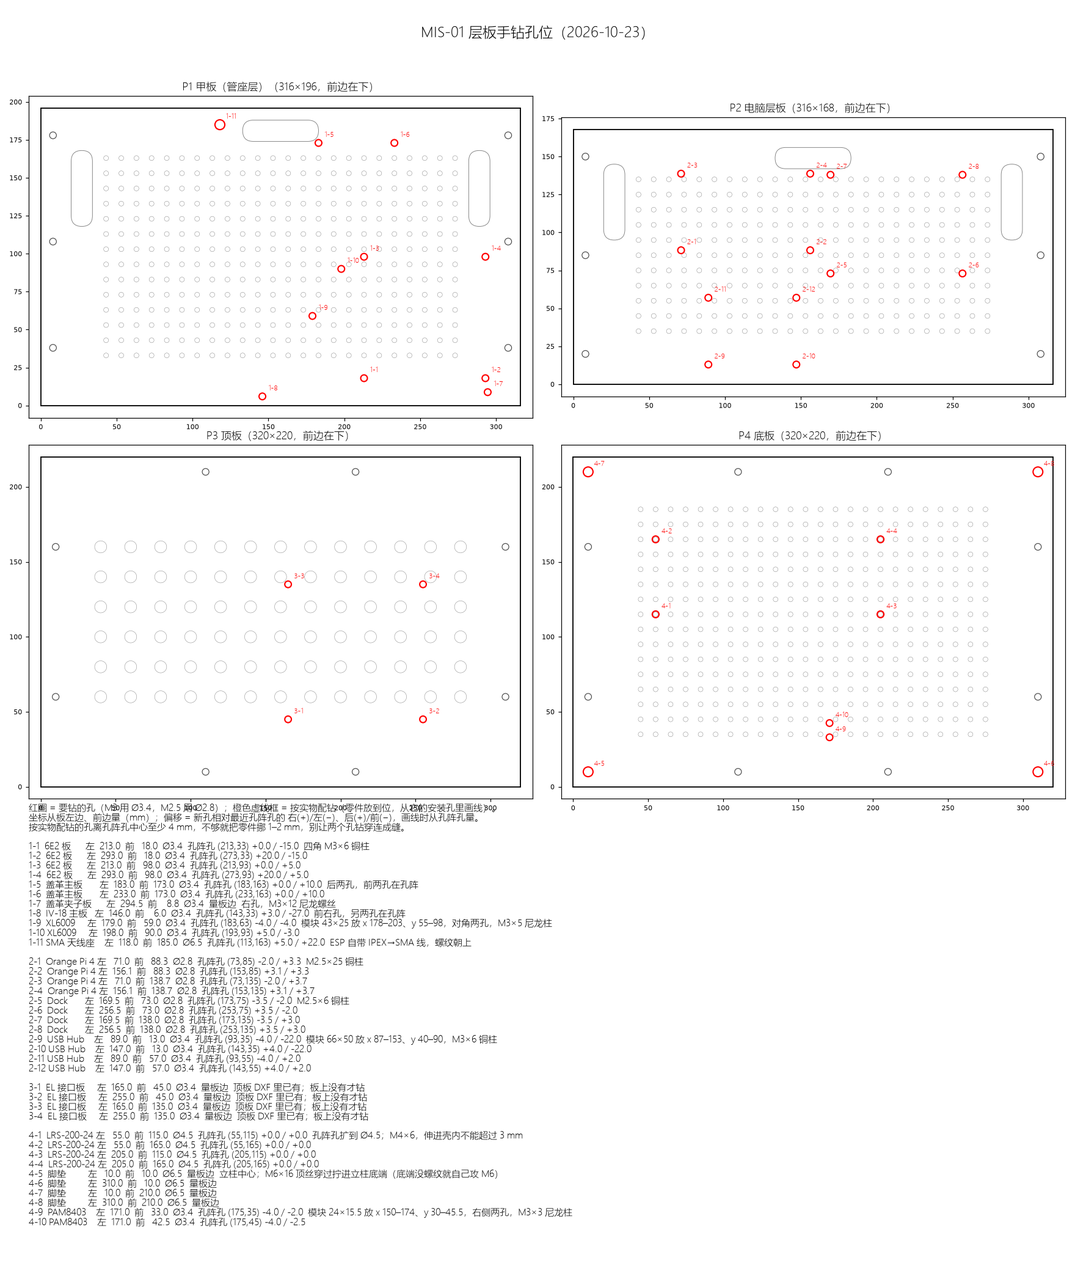
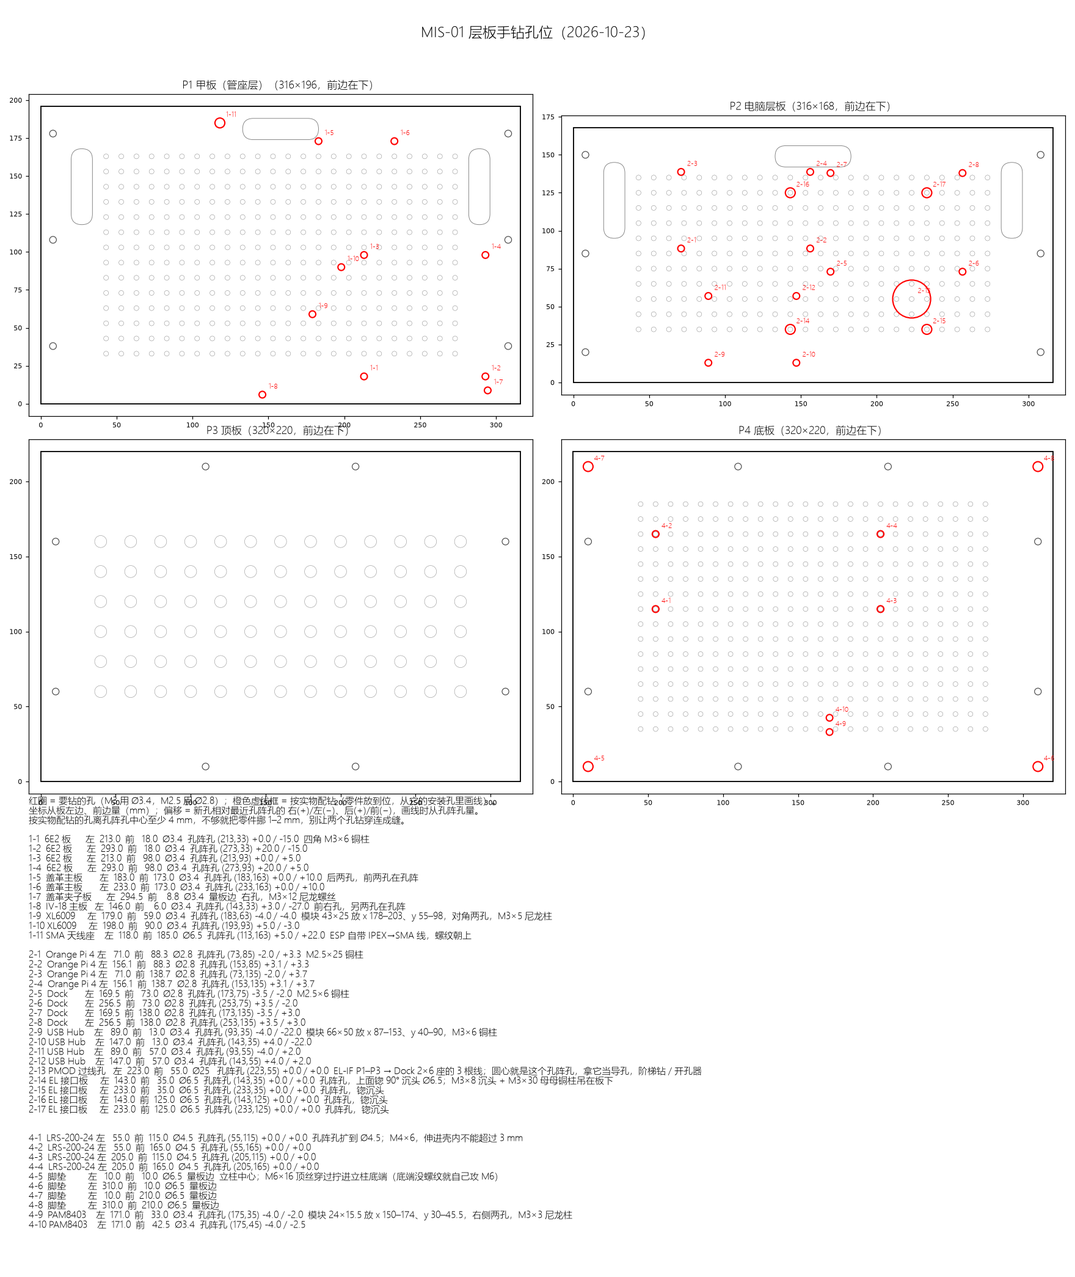
EL 接口板改吊电脑层板下、屏幕正后方（用户 2026-10-28 确认）
原因：原暂定吊在顶板下（x 160–260、y 40–140、z 410），到屏 CN5 的 DF11 线要 40–45 cm；用户手上只有一根 20 cm，
屏规格书最长 50 cm、设计笔记建议 10–20 cm（5.4 MHz）。新位置：
- 元件朝上、绕 Z 转 180°（全局 = (240 − lx, 160 − ly)），板占 x 140–240、y 60–160，板面 z 230；
  4 根 M3×30 母母铜柱挂在层板孔阵孔 (145/235, 65/155) 上，层板上面锪沉头（3 颗在 Hub、Dock、Pi 下面）。
- J_EL 在 (149.3, 113)、插头朝 −x，DF11 从板左边外面到 CN5（x 160、y 26.5、z 229，用户确认）约 12 cm，几乎同高、不穿层板、不过高压件。
- P1–P3 在 x 235.8、y 110/130/86，线穿层板新开 Ø25 过线孔（圆心 = 孔阵孔 (225,85)，孔边在 Dock 前沿前）到 Dock 前沿 2×6 座，
  按 4 个座最坏情况 7–13 cm（15 cm 线够）。J_PWR / J_PF / J_LAMP 用户自压，各约 45 cm。
- 整机重建后干涉：EL-IF 只和自己的铜柱贴合（接触面 0.01，正常），板、插头、线通道与其他零件无干涉。
改动：assembly_computers（EL_IF_REF / EL_IF_TOP / SHELF_PMOD_HOLE / el_if_pt）；frame_spec DRILL P2 加 2-13 过线孔、2-14～2-17 沉头，
P3 不再钻（顶板已做好，原 4 孔空着）；png/27 重出；新增 fig_elif_placement.py → png/33（32 已被 MAX6921 测试图占用）；
装配说明第 5 步（要在装 Pi / Dock / Hub 前吊上、线先插好）、整机架构、PCB 安装建议、parts_list 同步。

diff --git a/fig_elif_placement.py b/fig_elif_placement.py
@@ -1,0 +1,81 @@
+"""EL 接口板位置图（俯视 + 侧视）→ png/33_elif_placement.png。
+位置、插座、过线孔取自 assembly_computers（EL_IF_REF、SHELF_PMOD_HOLE、el_if_pt）；周围零件外框取自整机 items 的包围盒。
+用法：main(items)，items = assembly.build() 的返回值；单独运行时现建（约 5 min）。"""
+import matplotlib
+matplotlib.use("Agg")
+import matplotlib.pyplot as plt
+from matplotlib.patches import Rectangle, Circle
+import render as R
+import assembly_computers as AC
+from assembly_base import W, Z_SCREEN
+
+F = R.FONT
+J_LOCAL = {"J_EL": (90.7, 47), "P1": (4.2, 50), "P2": (4.2, 30), "P3": (4.2, 74), "J_PWR": (72, 94), "J_PF": (27.4, 96), "J_LAMP": (75, 4.5)}   # EL-IF D1.2/D1.3 变更记录
+HDR = {"DISPLAY 位": 184.5, "CAM 位": 204, "TP 位": 225, "GPIO 位": 247.5}   # Dock 前沿 4 个 2×6 座中心 x（整机模型 Tang20K_Dock 切片），y ≈ 111
+CN5 = (W / 2, 26.5, Z_SCREEN + 220 / 2 - 59)                                   # 屏背面中线、中心以下 59（2026-10-28 用户确认）
+
+
+def main(items=None, fname="png/33_elif_placement.png"):
+    if items is None:
+        import assembly as A
+        items = A.build()
+    meta = {}
+    for n, shp, *_ in items:
+        b = shp.val().BoundingBox()
+        meta.setdefault(n, [b.xmin, b.ymin, b.zmin, b.xmax, b.ymax, b.zmax])
+    X0, Y0 = AC.EL_IF_REF
+    ZT = AC.EL_IF_TOP
+    g = AC.el_if_pt
+    HOLE = (AC.SHELF_PMOD_HOLE[0], AC.SHELF_PMOD_HOLE[1], AC.SHELF_PMOD_HOLE[2] / 2)
+    J = {k: g(*v) for k, v in J_LOCAL.items()}
+    fig, (a1, a2) = plt.subplots(1, 2, figsize=(17, 9), dpi=110, gridspec_kw=dict(width_ratios=[1.45, 1]))
+    # ---- 俯视（只画电脑层上下相关的东西）
+    a1.set_title("俯视：EL-IF 吊在电脑层板下面（元件朝上，转 180°）", fontproperties=F, fontsize=12)
+    for n, c, a in (("Sharp_LJ64K052", "#d98a1c", 0.25), ("Tang20K_Dock", "#2f7d3a", 0.25), ("OrangePi_4", "#3b6fb6", 0.2),
+                    ("USB_Hub_4port", "#888", 0.25), ("EL_bracket_L", "#aaa", 0.4), ("EL_bracket_R", "#aaa", 0.4)):
+        b = meta[n]; a1.add_patch(Rectangle((b[0], b[1]), b[3] - b[0], b[4] - b[1], fc=c, alpha=a, ec="#555", lw=0.6))
+        a1.text((b[0] + b[3]) / 2, (b[1] + b[4]) / 2, n.replace("_", " ") + ("（层板上面）" if n in ("Tang20K_Dock", "OrangePi_4", "USB_Hub_4port") else ""),
+                ha="center", va="center", fontproperties=F, fontsize=7, color="#333")
+    a1.add_patch(Rectangle((X0 - 100, Y0 - 100), 100, 100, fc="#1f6b35", alpha=0.55, ec="#0b3", lw=1.5))
+    a1.text(X0 - 50, Y0 - 9, f"EL-IF D1.3  100×100  板面 z {ZT:g}（层板下面）", ha="center", va="center", fontproperties=F, fontsize=9, color="white")
+    for hx, hy in ((5, 5), (95, 5), (5, 95), (95, 95)):
+        a1.add_patch(Circle(g(hx, hy), 2.5, fc="white", ec="k", lw=0.8))
+    a1.add_patch(Circle(HOLE[:2], HOLE[2], fc="none", ec="#c00", lw=1.6, ls="--"))
+    a1.text(HOLE[0] + HOLE[2] + 3, HOLE[1] + 3, "层板新开 Ø25\n过线孔（以孔阵孔\n为圆心当导孔）", fontproperties=F, fontsize=8, color="#c00")
+    for k, (x, y) in J.items():
+        a1.plot(x, y, "s", color="#ff0", mec="k", ms=6); a1.text(x + 2, y + 2, k, fontproperties=F, fontsize=8)
+    for k, x in HDR.items():
+        a1.add_patch(Rectangle((x - 7.6, 108.6), 15.2, 5.1, fc="#fff", ec="#060", lw=1)); a1.text(x - 7, 104, k, fontproperties=F, fontsize=6.5, color="#060")
+    jx, jy = J["J_EL"]
+    a1.plot([jx, jx - 20, 130, 130, CN5[0]], [jy, jy, jy - 12, 50, CN5[1] + 8], color="#06c", lw=2.2)
+    a1.text(108, 70, "DF11 20P\n走线约 12 cm\n（20 cm 线，余量盘起）", fontproperties=F, fontsize=8.5, color="#06c")
+    a1.plot(CN5[0], CN5[1], "o", color="#06c", ms=8); a1.text(CN5[0] + 3, CN5[1] - 9, "屏 CN5（背面）", fontproperties=F, fontsize=8, color="#06c")
+    for k in ("P1", "P2", "P3"):
+        x, y = J[k]; a1.plot([x, HOLE[0]], [y, HOLE[1]], color="#c60", lw=1.4)
+    a1.set_xlim(0, 320); a1.set_ylim(0, 200); a1.set_aspect("equal"); a1.grid(alpha=0.2)
+    a1.set_xlabel("x（mm，向右）", fontproperties=F); a1.set_ylabel("y（mm，向后；前面板在 y 0）", fontproperties=F)
+    # ---- 侧视（x = 225 附近剖，看高度）
+    a2.set_title("侧视（从右往左看，前面在左）", fontproperties=F, fontsize=12)
+    def zr(n, c, a=0.3, lab=None):
+        b = meta[n]; a2.add_patch(Rectangle((b[1], b[2]), b[4] - b[1], b[5] - b[2], fc=c, alpha=a, ec="#555", lw=0.6))
+        if lab: a2.text((b[1] + b[4]) / 2, (b[2] + b[5]) / 2, lab, ha="center", va="center", fontproperties=F, fontsize=7.5)
+    zr("Sharp_LJ64K052", "#d98a1c", 0.3, "EL 屏")
+    zr("shelf_plate_bakelite", "#d0603a", 0.8)
+    zr("Tang20K_Dock", "#2f7d3a", 0.35, "Dock")
+    a2.add_patch(Rectangle((Y0 - 100, ZT - 1.6), 100, 1.6, fc="#1f6b35", ec="k"))
+    a2.add_patch(Rectangle((Y0 - 100, ZT), 100, 15.7, fc="#1f6b35", alpha=0.25, ec="#1f6b35", ls=":"))
+    for yy in (Y0 - 5, Y0 - 95):
+        a2.add_patch(Rectangle((yy - 2.75, ZT), 5.5, 30, fc="#c9a227", ec="k", lw=0.5))
+    a2.text(Y0 - 50, ZT + 21, f"M3×{AC.EL_IF_STANDOFF} 铜柱 ×4（吊在层板下，孔阵孔，上面沉头）", ha="center", fontproperties=F, fontsize=8)
+    a2.add_patch(Rectangle((HOLE[1] - HOLE[2], 260), 2 * HOLE[2], 4, fc="white", ec="#c00", lw=1.2, ls="--"))
+    a2.plot([CN5[1], 50, 113], [CN5[2], ZT + 2, ZT + 2], color="#06c", lw=2); a2.plot(CN5[1], CN5[2], "o", color="#06c", ms=7)
+    a2.text(32, 212, "CN5 z 229，DF11 基本水平", fontproperties=F, fontsize=8, color="#06c")
+    a2.set_xlim(0, 200); a2.set_ylim(170, 300); a2.set_aspect("equal"); a2.grid(alpha=0.2)
+    a2.set_xlabel("y（mm）", fontproperties=F); a2.set_ylabel("z（mm）", fontproperties=F)
+    fig.suptitle("EL-IF 位置方案：电脑层板下面、屏背后（2026-10-28 用户确认）", fontproperties=F, fontsize=14)
+    fig.tight_layout(); fig.savefig(fname, facecolor="white"); plt.close(fig)
+    print("saved", fname)
+
+
+if __name__ == "__main__":
+    main()

diff --git a/assembly_computers.py b/assembly_computers.py
@@ -85,22 +85,32 @@ def build():
     build_extras()
 
 
-# ---------------------------------------------------------------- EL 接口板、Hub、Pi 散热（2026-10-22 暂定，待用户确认）
+# ---------------------------------------------------------------- EL 接口板、Hub、Pi 散热
 EL_IF_STEP = "el_driver/D1.3/制板文件/EL-IF_D1.3.step"          # EL-IF D1.3，100×100，原点 = 板左下角，元件最高 15.7；不进 git
-EL_IF_XY = (160.0, 40.0)                                       # 板占 x 160–260、y 40–140（Dock 前半部上方）
-EL_IF_STANDOFF = 10                                            # 吊在顶板下：M3×10 铜柱，元件朝下
+EL_IF_REF = (240.0, 160.0)                                     # 板绕 Z 转 180° 后，板本地原点落在全局 (240, 160)：全局 = (240 − lx, 160 − ly)，板占 x 140–240、y 60–160
+EL_IF_STANDOFF = 30                                            # 吊在电脑层板下：M3×30 母母铜柱，元件朝上；板面 z 230
+EL_IF_TOP = Z_SHELF - EL_IF_STANDOFF                           # 板元件面（顶面）z 230
+SHELF_PMOD_HOLE = (225.0, 85.0, 25.0)                          # 电脑层板新开 PMOD 过线孔 中心 x, y, 直径（孔阵孔 (225,85) 当导孔；孔边 y 97.5 在 Dock 前沿 98.4 前面）
+
+
+def el_if_pt(lx, ly):
+    """EL-IF 板本地坐标 → 全局 (x, y)"""
+    return EL_IF_REF[0] - lx, EL_IF_REF[1] - ly
 
 
 def el_if():
-    """EL 接口板吊在顶板下面（元件朝下）：离 Dock J5/J6/J14 近（PMOD 线 15 cm），离 EL 屏也近；
-    在 HDMI 软排线拱顶（约 z 368）和 Pi 风扇上面，层板上已经放不下 100×100（Pi、Dock 占满）。顶板要按四角孔打 4 个 M3 孔。"""
-    from assembly_base import H
-    x0, y0 = EL_IF_XY
-    zb = H - EL_IF_STANDOFF                                    # 板背面（原底面）z 410
-    b = V.load_abs(EL_IF_STEP).rotate((0, 0, 0), (1, 0, 0), 180).translate((x0, y0 + 100, zb))
+    """EL 接口板吊在电脑层板下面、EL 屏正后方（2026-10-28 用户确认；原暂定吊在顶板下，DF11 屏线要 40–45 cm，
+    用户手上只有一根 20 cm）。元件朝上、绕 Z 转 180°：
+    - J_EL（本地 (90.7, 47)，DF11 弯角，插头朝 −x）在全局 (149.3, 113)，到屏 CN5（x 160、y 26.5、z 229）走线约 12 cm；
+    - P1–P3（本地 x 4.2，y 50/30/74）在全局 x 235.8、y 110/130/86，线往上穿层板 Ø25 过线孔到 Dock 前沿 2×6 座，7–13 cm；
+    - 四个安装孔落在层板孔阵孔 (145/235, 65/155) 上，层板上面锪沉头（分别在 Hub、Dock、Pi 下面），M3×8 沉头 + M3×30 母母铜柱。"""
+    rx, ry = EL_IF_REF
+    zb = EL_IF_TOP - 1.6
+    b = V.load_abs(EL_IF_STEP).rotate((0, 0, 0), (0, 0, 1), 180).translate((rx, ry, zb))
     add("EL-IF_D1.3", b, "pcb_g", "computer")
     for hx, hy in ((5, 5), (95, 5), (5, 95), (95, 95)):
-        add("standoff_M3x10_ELIF", P.standoff_m3(EL_IF_STANDOFF).translate((x0 + hx, y0 + hy, zb)), "brass", "computer")
+        x, y = el_if_pt(hx, hy)
+        add("standoff_M3x30_ELIF", P.standoff_m3(EL_IF_STANDOFF).translate((x, y, EL_IF_TOP)), "brass", "computer")
 
 
 HUB_XY = (87.0, 40.0)                                          # Hub 模块左前角（2026-10-26 按实测 66×50 定）

diff --git a/frame_spec.py b/frame_spec.py
@@ -49,7 +49,7 @@ PLATES = [
      "垫在底层一圈型材下面；电源等安装孔以后按布置再加"),
 ]
 VENTS = [(40 + i * 20, 60 + j * 20) for i in range(13) for j in range(6)]
-# 零散 M3 孔（板自身坐标）：P3 顶板下吊 EL 接口板 D1.3（板占 x 160–260、y 40–140，四角孔离边 5；2026-10-22 暂定，见 assembly_computers.el_if）
+# 零散 M3 孔（板自身坐标）：P3 顶板上原计划吊 EL 接口板的 4 个孔。顶板已按这个做好（带着这 4 孔）；2026-10-28 EL 接口板改吊电脑层板下，这 4 孔空着不用
 EXTRA_M3 = {"P3": [(165, 45), (255, 45), (165, 135), (255, 135)]}
 
 # 电路板孔阵（PCB安装与空间规划建议.md 第 4 节）：Ø3.2，间距 10，孔心在全局 X、Y = 10 的倍数 + 5；
@@ -76,8 +76,11 @@ DRILL = {
            (171.5, 103.0, 2.8, "Dock", "M2.5×6 铜柱"), (258.5, 103.0, 2.8, "Dock", ""),
            (171.5, 168.0, 2.8, "Dock", ""), (258.5, 168.0, 2.8, "Dock", ""),
            (91, 43, 3.4, "USB Hub", "模块 66×50 放 x 87–153、y 40–90，M3×6 铜柱"), (149, 43, 3.4, "USB Hub", ""),
-           (91, 87, 3.4, "USB Hub", ""), (149, 87, 3.4, "USB Hub", "")],
-    "P3": [(x, y, 3.4, "EL 接口板", "顶板 DXF 里已有；板上没有才钻") for x, y in EXTRA_M3["P3"]],
+           (91, 87, 3.4, "USB Hub", ""), (149, 87, 3.4, "USB Hub", ""),
+           (225, 85, 25.0, "PMOD 过线孔", "EL-IF P1–P3 → Dock 2×6 座的 3 根线；圆心就是这个孔阵孔，拿它当导孔，阶梯钻 / 开孔器")]
+          + [(x, y, 6.5, "EL 接口板", "孔阵孔，上面锪 90° 沉头 Ø6.5；M3×8 沉头 + M3×30 母母铜柱吊在板下" if (x, y) == (145, 65) else "孔阵孔，锪沉头")
+             for x, y in ((145, 65), (235, 65), (145, 155), (235, 155))],
+    "P3": [],                                                  # 原吊 EL 接口板的 4 个 M3（EXTRA_M3，顶板已做好带着）2026-10-28 起不用
     # LRS-200-24 底面 4-M4（明纬规格书 Case 207：离端子端 32.5、孔距 150；离长边 32.5、孔距 50；螺丝伸入壳内 ≤ 3）
     # 电源放 x 22.5–237.5、y 82.5–197.5，四孔正好落在孔阵 (55/205, 115/165) 上：只把这 4 个 Ø3.2 孔扩成 Ø4.5，M4×6 内六角或盘头（底板已做好不锪窝；脚垫 6 高，螺丝头 ≤ 4 碰不到桌面）；最长 M4×7
     "P4": [(x, y, 4.5, "LRS-200-24", "孔阵孔扩到 Ø4.5；M4×6，伸进壳内不能超过 3 mm" if (x, y) == (55, 115) else "")

diff --git a/assembly.py b/assembly.py
@@ -37,7 +37,7 @@ def frame():
     add("deck_plate_bakelite", deck.translate((2, 2, Z_DECK)), "bakelite", "plates")
     add("shelf_plate_bakelite", P.plate(W - 4, D - 52, PLATE_T).translate((2, 30, Z_SHELF)), "bakelite", "plates")
     vents = [(40 + i * 20, 60 + j * 20, 8) for i in range(13) for j in range(6)]
-    vents += [(x, y, 3.2) for x, y in ((165, 45), (255, 45), (165, 135), (255, 135))]   # 吊 EL 接口板 M3（frame_spec.EXTRA_M3）
+    vents += [(x, y, 3.2) for x, y in ((165, 45), (255, 45), (165, 135), (255, 135))]   # 原吊 EL 接口板的 M3（frame_spec.EXTRA_M3），顶板已做好带着，现在空着
     add("top_plate_bakelite_vented", P.plate(W, D, PLATE_T, holes=vents).translate((0, 0, H)), "bakelite", "top")
 
 # ------------------------------------------------------------------ EL 屏
@@ -214,7 +214,7 @@ def pcb3_nid_modules(z_face):
 
 # ------------------------------------------------------------------ 电脑层
 # Orange Pi 4、Dock、HDMI 软排线两头小板：2026-10-23 用户确认，见 assembly_computers.py。
-# EL 接口板、Hub 模块、风扇小板还没放；后面板接口窗等布置定了再开。
+# 后面板接口窗等布置定了再开。
 def computers():
     AC.build()
 

diff --git a/MIS-01装配说明.md b/MIS-01装配说明.md
@@ -7,7 +7,7 @@
 ## 0. 先准备
 
 - 加工件：前壳、下巴托、IEC 小板（嘉立创钣金，2 mm 铝）；键盘座 + 背盖（嘉立创 3D 打印尼龙 MJF；7 个螺丝孔先用烙铁压 M3×4 热熔铜螺母，背盖用 4 颗 M2×6 自攻）；4 块电木层板（`procurement/电木隔板_DXF/`）。喇叭不用支架（5151 耳朵直接锁 Y 梁内侧槽）。
-- 自己钻的孔（孔位、离最近孔阵孔的偏移见 `png/27_drill_map.png`；离孔阵孔中心要 ≥ 4 mm，别钻穿连成缝）：层板上不在孔阵上的板孔（6E2 板 4 个、盖革主板后 2 个、夹子板右 1 个、XL6009 2 个、甲板 SMA 天线座 Ø6.5、IV-18 板 (148, 8)、Orange Pi、Dock、USB Hub 各 4 个）；顶板上 EL 接口板 4 个 M3 孔（x 165 / 255、y 45 / 135）；底板上 LRS-200 4 个孔阵孔扩 Ø4.5、四角脚垫 Ø6.5 ×4、PAM8403 2 个。先钻孔再装板，别装好再钻。
+- 自己钻的孔（孔位、离最近孔阵孔的偏移见 `png/27_drill_map.png`；离孔阵孔中心要 ≥ 4 mm，别钻穿连成缝）：层板上不在孔阵上的板孔（6E2 板 4 个、盖革主板后 2 个、夹子板右 1 个、XL6009 2 个、甲板 SMA 天线座 Ø6.5、IV-18 板 (148, 8)、Orange Pi、Dock、USB Hub 各 4 个）；电脑层板上 PMOD 过线孔 Ø25（png/27 的 2-13，圆心就是一个孔阵孔，拿它当导孔，阶梯钻或开孔器）和 EL 接口板 4 个孔阵孔（2-14～2-17）上面锪 90° 沉头；顶板上原来给 EL 接口板留的 4 个 M3 孔不用了，空着；底板上 LRS-200 4 个孔阵孔扩 Ø4.5、四角脚垫 Ø6.5 ×4、PAM8403 2 个。先钻孔再装板，别装好再钻。
 - 紧固件：M4 螺丝 + 2020 弹片 T 螺母（型材上所有东西都用它）；M3 铜柱、螺丝；M2.5 铜柱（Pi、Dock）；M2×5 铜柱 ×4（键盘转接小板）；M6×16 顶丝 ×4（脚垫）。
 
 ## 1. 机架
@@ -48,7 +48,7 @@
 2. Tang 20K Dock（x 170–265、y 99–172，M2.5×6）。
 3. 两块 HDMI 小板分别插到 Pi、Dock 的 HDMI 口，20 cm 同向排线在上方拱起来连接。
 4. USB Hub（66×50，Pi 前面 x 87–153、y 40–90，M3×6 铜柱，四孔 (91/149, 43/87) 自钻）。
-5. EL 接口板吊在顶板下面（元件朝下，M3×10）：先装在顶板上、插好 PMOD 线（P1–P3 → Dock J5 / J6 / J14，1 脚对 1 脚）和到 EL 屏的线，再盖顶板。
+5. EL 接口板吊在电脑层板下面、屏幕正后方（元件朝上，J_EL 在左、P1–P3 在右；2026-10-28 定）：4 颗 M3×8 沉头从层板上面穿孔阵孔（png/27 的 2-14～2-17），下面拧 M3×30 母母铜柱，板子用 M3×6 盘头锁在铜柱上。**要在装 Pi、Dock、Hub 之前装**（其中 3 颗沉头在它们下面）。装之前先把线插好：DF11 屏线（20 cm）插 J_EL，从板左边外面往前走到屏 CN5，多出来的盘一圈扎好；3 根 PMOD 线插 P1–P3，从 Ø25 过线孔穿上去，等 Dock 装好再插 J5 / J6 / J14（1 脚对 1 脚）；J_PWR、J_PF、J_LAMP 三根自己压的线也先插好再吊上去。
 
 ## 6. EL 屏
 
@@ -72,12 +72,12 @@
 
 ## 9. 收尾
 
-1. 顶板（EL 接口板吊在下面）盖上，M4 锁顶层型材。
+1. 顶板盖上，M4 锁顶层型材（顶板上原来给 EL 接口板留的 4 个 M3 孔空着）。
 2. 可选：全高侧板 ×2、整块背板，各用 M4 锁型材外侧。装不装都不影响机器，装上后靠侧板和背板上的通风孔散热。
 3. 上电前按 `el_driver/上电测试清单.txt` 逐项查，尤其是三路高压（170 V、250 V、约 400 V）和保护地通断。
 
 ## 还没定 / 没建模（装之前确认）
 
-- 层板已做好，手钻孔位见 `png/27_drill_map.png`（`fig_drill_map.py`）；EL 接口板吊在顶板下（暂定）；Hub、XL6009、PAM8403 已按实测尺寸放好（2026-10-26），风扇支架还是估计。
+- 层板已做好，手钻孔位见 `png/27_drill_map.png`（`fig_drill_map.py`）；EL 接口板吊在电脑层板下、屏幕后面（2026-10-28 定，png/33）；Hub、XL6009、PAM8403 已按实测尺寸放好（2026-10-26），风扇支架还是估计。
 - 键盘座、下巴托按铝脚垫 6 mm 算：键盘连接条最低点离桌面约 0.2 mm。换脚垫高度要重算（`assembly_panel.FEET_H`、`SLANT_EXT`）。
 - 麦克风阵列型号未定；线束没建模，走线时注意别压在高压板上，高压线用硅胶高压线。

diff --git a/PCB安装与空间规划建议.md b/PCB安装与空间规划建议.md
@@ -124,7 +124,7 @@
 | 板子 | 建议装法和位置 | 要注意的 |
 |---|---|---|
 | 24 V 配电板（PCB-3，带 NID100-5 和 NID100-12） | **倒挂在甲板下、电源上方**（元件朝下，M3×10 铜柱，四孔落在甲板孔阵 x 85/225、y 65/155；板占 x 80–230、y 60–160；元件最低 z 51，离电源顶 21） | NID100 模块 51.2×12×27.1，加针 4.5，高 31.6；电源输出端子在电源右端（X 约 215–237） |
-| EL 接口板（PCB-1，实际 100×100，见 el_driver/D1.2/变更记录_D1.2.txt） | 平放，电脑层 F 区，和 FPGA Dock 一起布置 | 到 Dock 的排线 ≤ 15 cm；到屏 CN5 的排线见第 6 节第 1 条 |
+| EL 接口板（PCB-1，实际 100×100，见 el_driver/D1.2/变更记录_D1.2.txt） | 吊在电脑层板下面、屏幕正后方（元件朝上，x 140–240、y 60–160，板面 z 230；2026-10-28 定） | 到 Dock 的排线 7–13 cm（穿层板 Ø25 过线孔）；到屏 CN5 的 DF11 约 12 cm |
 | 辉光管驱动板（K155ID1 × 6 + 通用高压小板插座） | 甲板上、6 支 IN-14 后面平放（NIXIE-DRV D1，150×80，x 20–170、y 40–120，M3×10 铜柱） | **170 V 高压**；IN-14 小板用 2×7 排针直接插在它前沿，不走排线 |
 | ESP32 底板 | 平放在甲板上、辉光驱动板后面：x 40–150、y 120–170（110×50，D1 已画完），M3×6 铜柱，四孔 (45/145, 125/165) 都在孔阵上 | 要连到 IV-18、表头、6E2、盖革板、Orange Pi 上电控制 |
 | 盖革主板 + 夹子长条板（参考 MightyOhm；整机唯一的蜂鸣器在主板上） | 主板 60×70 平放在甲板上 x 180–240、y 110–180（6E2 板后面），M3×6 铜柱，四孔 (185/235, 115/175)，前两孔在孔阵、后两孔要自己钻；左后角压住甲板后走线孔右端约 4×4 mm；夹子长条板 L 形在 J305 正下方（长条 x 153–299、y 2–14，左端加宽到 x 153–186、y 2–40），垫 3 mm 尼龙柱、板底引脚剪到 1 mm 内，3 颗 M3 尼龙螺丝：左 (165,35)/(175,35) 在孔阵上，右 (296.5,10.8) 自钻 | **约 400 V 高压**；J305 管轴 x 186–289.5、y 8、z 105.3；夹子长条板到主板用短线 |
@@ -137,7 +137,7 @@
 
 ## 6. 需要一起讨论的问题
 
-1. **CN5 排线怎么走。** EL 屏的 CN5 在屏背面中心往下约 59 处（X 约 160、Z 约 229，属于管座层），EL 接口板在上面的电脑层。屏背面（Y 26.5）离电脑层板前沿（Y 30）只有约 3.5，排线可能挤不过去。建议在电脑层板前沿开一个缺口，或者把 EL 接口板放到管座层。
+1. ~~CN5 排线怎么走~~：已定（2026-10-28）。EL 接口板吊在电脑层板下面、和 CN5（X 160、Z 229，用户确认位置）几乎同高，DF11 从板左边外面往前到屏背面，约 12 cm，不用穿层板。
 2. ~~6E2 的 250 V 和 6.3 V 由哪块板出~~：已定，6E2 板 + 通用高压小板。
 3. **管座层用竖插、其他平放**，这样可以吗？还是全部平放更省事？
 4. **竖插卡的长度**：统一 100×100（最便宜），还是允许 100×160？

diff --git a/MIS-01整机架构.md b/MIS-01整机架构.md
@@ -256,7 +256,7 @@ PCB-3 是下一步最先画的板子，插座编号和针序见接线方案第 4
 2. **ESP32-S3 开发板**：微雪 ESP32-S3-DEV-KIT（模组 N16R8），排针中心距约 23（按 22.86）已实测；板长、脚数和板载外设待查，查清再画 ESP32 底板、改 3D 模型 P32。
 3. **6 个功能键、2 根推子的具体功能**（`面板方案.md` 第 5 节）。
 4. **盖革板**：原理图按 5 V 输入重新核算升压参数。
-5. **Orange Pi 4、FPGA Dock 的位置**：已定（2026-10-23 用户确认，见第 1 节）；层板手钻孔位 `fig_drill_map.py` → png/27。2026-10-22 暂定：EL 接口板元件朝下吊在顶板下（x 160–260、y 40–140，M3×10，顶板 DXF 已加 4 个 M3 孔）；USB Hub 在电脑层前沿（Pi 前面）；RK3399 散热片 + 40×10 风扇（打印支架）。风扇开关小板不建模。装配顺序见 `MIS-01装配说明.md`。
+5. **Orange Pi 4、FPGA Dock 的位置**：已定（2026-10-23 用户确认，见第 1 节）；层板手钻孔位 `fig_drill_map.py` → png/27。EL 接口板（2026-10-28 定）：吊在电脑层板下、屏幕正后方，元件朝上，板占 x 140–240、y 60–160、板面 z 230，M3×30 铜柱挂在孔阵孔上；DF11 屏线约 12 cm（用户只有 20 cm 一根），PMOD 线穿层板新开的 Ø25 过线孔 (225,85) 到 Dock，7–13 cm（png/33）；原先暂定的吊在顶板下 DF11 要 40–45 cm，不行。USB Hub 在电脑层前沿（Pi 前面）；RK3399 散热片 + 40×10 风扇（打印支架）。风扇开关小板不建模。装配顺序见 `MIS-01装配说明.md`。
 6. **钮子保护盖**：没买到合适的，先不装（2026-10-26）。
 7. **前面 USB 口**：已定（2026-10-26），1 个上下叠放双口件放左缺口 x 28，见 2.1。带灯按钮实测与模型一致（Ø16）。
 8. **到货要实测的**：带灯方键端子、指示灯极性、键盘 POGO 触点、表头内阻（正泰 85C1，未到货）、Dock 12 V 实际电流、模式开关小电流下读数是否稳定。
